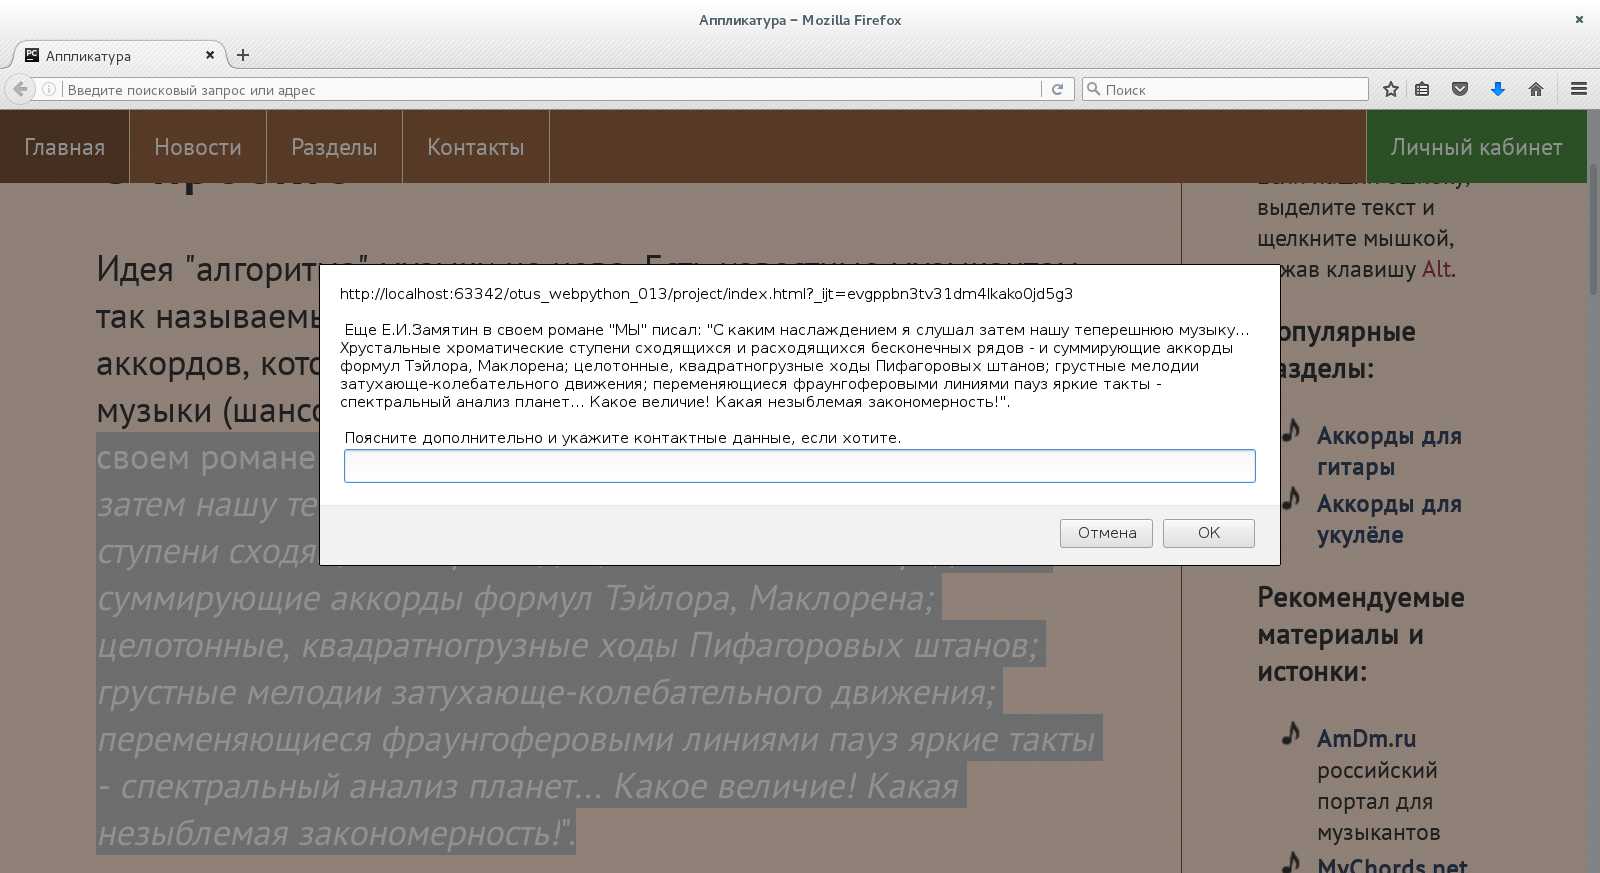
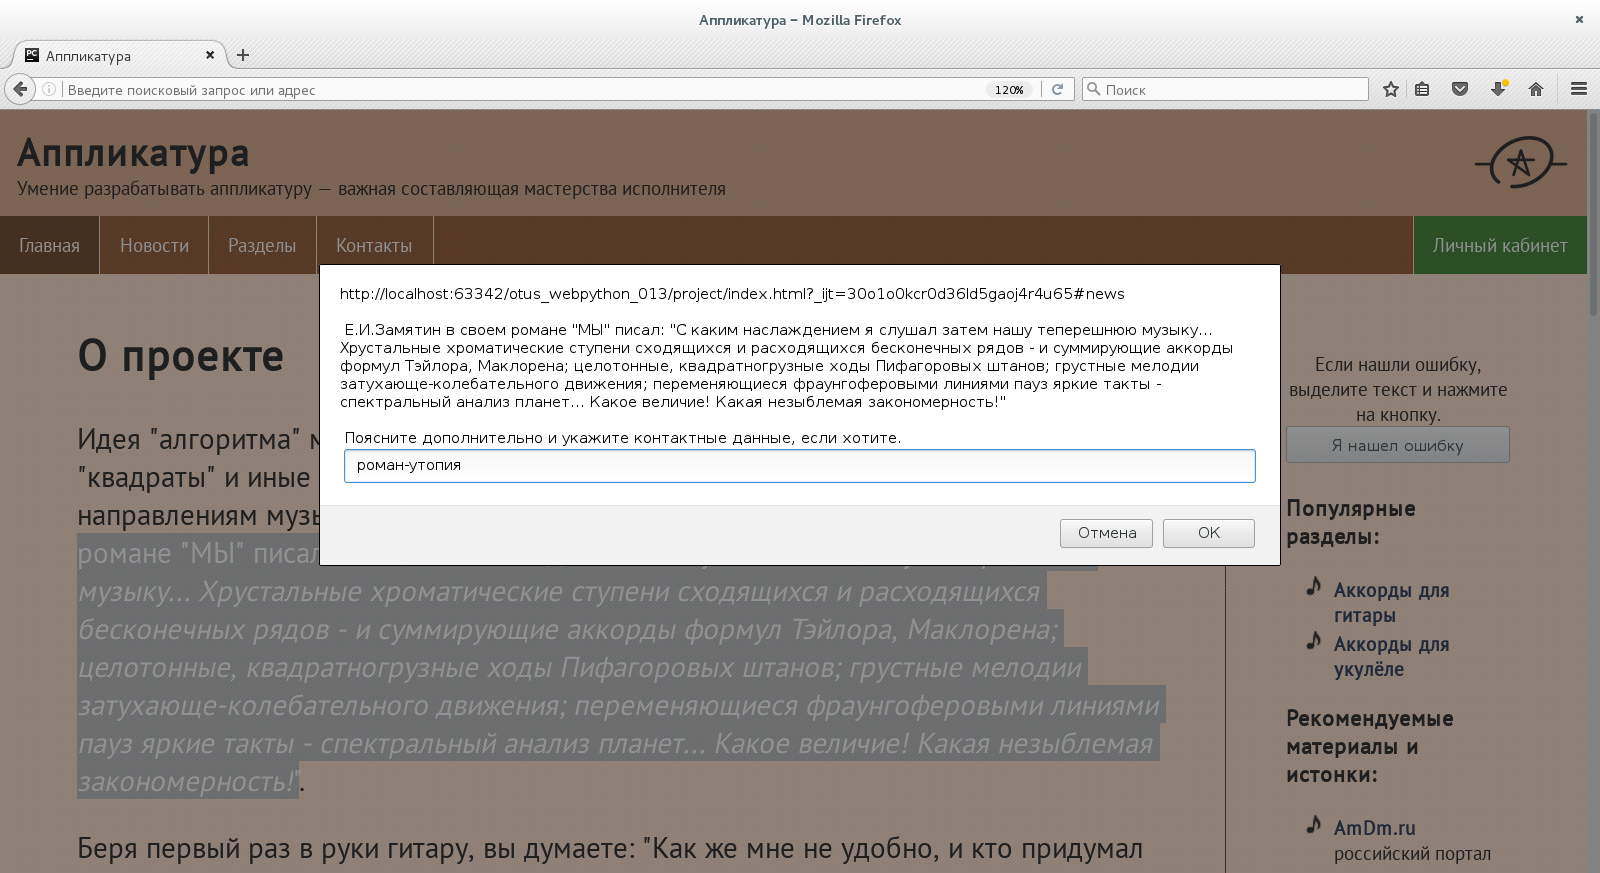
описание нового подхода к выделению

diff --git a/README.md b/README.md
@@ -25,7 +25,7 @@
 Механизм формирования сообщения BugReport и как будто отправляются:
 * адрес страницы
 * выделенный пользователем текст
-* его дополнительный комментарий
+* дополнительный комментарий пользователя
 
 ## Cкриншоты
 
@@ -54,21 +54,32 @@
 
 #### Сообщение о работе BugReport:
 
-см. "Если нашли ошибку, выделите текст и щелкните мышкой, зажав клавишу Alt."
+см. "Если нашли ошибку, выделите текст и нажмите на кнопку."
 
-![about](https://raw.githubusercontent.com/BorisPlus/otus_webpython_013/master/README.files/images/screenshots/js_015/about.png "Title")
+![bag_report_narrow_monitor](https://raw.githubusercontent.com/BorisPlus/otus_webpython_013/master/README.files/images/screenshots/js_015/bag_report_narrow_monitor.png "Title")
+
+![narrow_monitor](https://raw.githubusercontent.com/BorisPlus/otus_webpython_013/master/README.files/images/screenshots/js_015/narrow_monitor.png "Title")
+
 
 #### Выделите мышкой:
 
 ![mark](https://raw.githubusercontent.com/BorisPlus/otus_webpython_013/master/README.files/images/screenshots/js_015/mark.png "Title")
 
-#### Зажмите клавишу Alt и щелкните мышкой по ранее выделенному:
+![mark_narrow_monitor](https://raw.githubusercontent.com/BorisPlus/otus_webpython_013/master/README.files/images/screenshots/js_015/mark_narrow_monitor.png "Title")
+
+#### Нажмите кнопку и заполните форму по желанию:
 
 ![promt](https://raw.githubusercontent.com/BorisPlus/otus_webpython_013/master/README.files/images/screenshots/js_015/promt.png "Title")
 
-#### Благодарственное сообщение:
+![promt_narrow_monitor](https://raw.githubusercontent.com/BorisPlus/otus_webpython_013/master/README.files/images/screenshots/js_015/promt_narrow_monitor.png "Title")
 
-![thanks_message](https://raw.githubusercontent.com/BorisPlus/otus_webpython_013/master/README.files/images/screenshots/js_015/thanks_message.png "Title")
+#### Благодарность:
+
+![thanks_message](https://raw.githubusercontent.com/BorisPlus/otus_webpython_013/master/README.files/images/screenshots/js_015/thanks.png "Title")
+
+![thanks_message](https://raw.githubusercontent.com/BorisPlus/otus_webpython_013/master/README.files/images/screenshots/js_015/thanks_narrow_monitor.png "Title")
+
+через 3 секунды все вернется обратно, а выделение останется.
 
 ## Авторы
 
